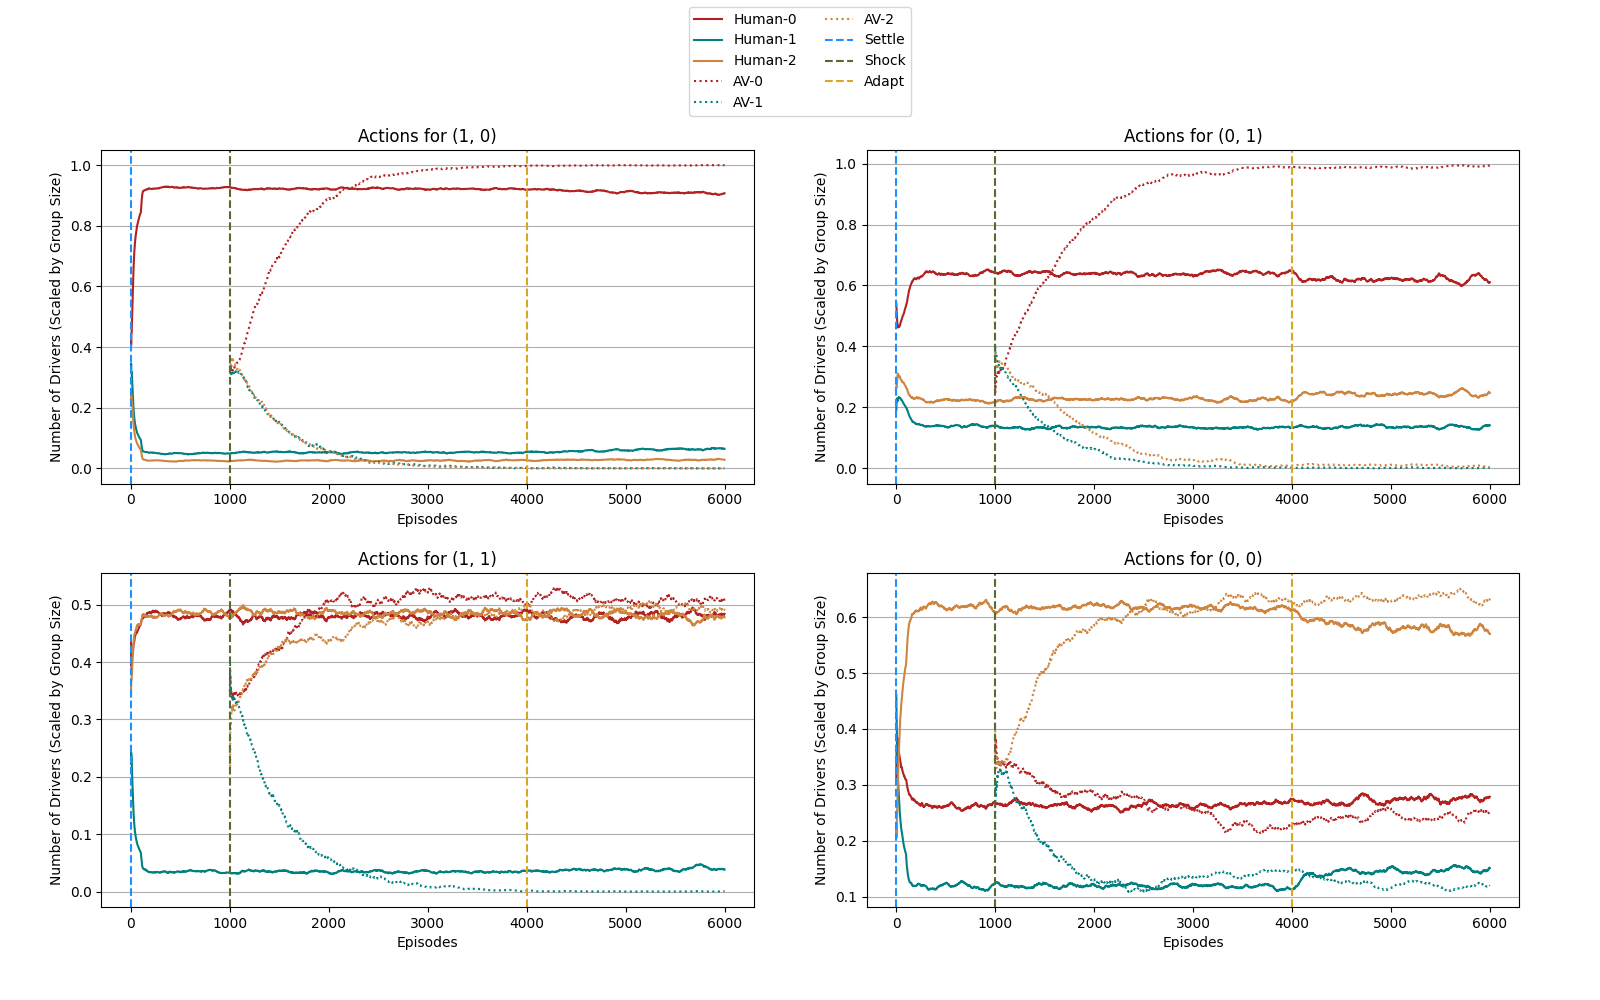
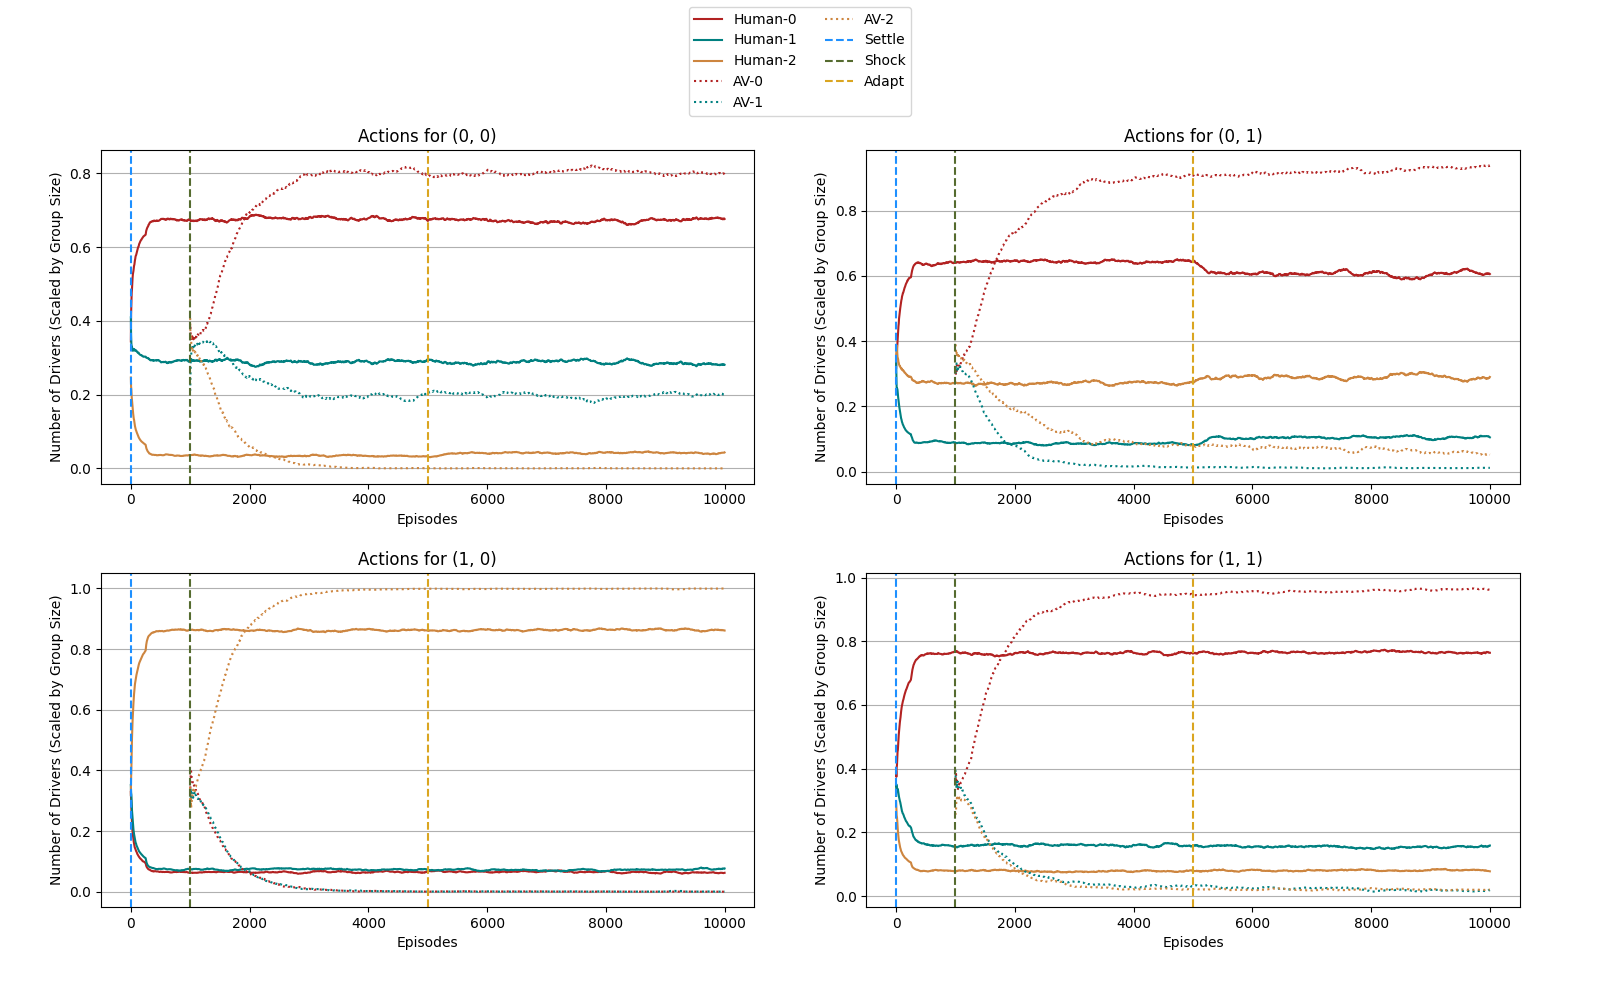
update readme

diff --git a/README.md b/README.md
@@ -1,13 +1,6 @@
-# Overview
-
-This project involves the development of a reinforcement learning environment where AV and human agents learn the optimal path to get from an origin to a destination.
-The implementation includes several components, as depicted in the UML Class and Sequence Diagrams [HERE](https://miro.com/app/board/uXjVN4vGqSI=/?share_link_id=316593087566).
-
 # How to run on servers?
 
 See [here](server_scripts/how_to.md).
-
-<br><br><br>
 
 # Training setting
 
@@ -16,28 +9,21 @@ See [here](server_scripts/how_to.md).
 - Humans: 823 | AVs: 377 
 - Humans: Gawron | AVs: DQN (Single)
 ## AVs' objective
-- Conducted:
-    - **Selfish**: Minimize own travel time.
-    - **Altruistic**: Minimize everyone's travel times.
-    - **Competitive**: Minimize own travel time, maximize other group's travel times.
-    - **Collaborative**: Minimize own and own group's travel times. 
-    - **Social**: Minimize own and everyone's travel times.
-    - **Malicious**: Maximize other group's travel times.
-- See [results](results).
+- **Competitive**: Minimize own travel time, maximize other group's travel times.
 ## Training episodes
-- 6000 episodes, 3 phases
+- 10000 episodes, 3 phases
 - Phase 1 (**Settle**) : Starts in episode 1
     - Humans: 1200
     - Only humans learn.
 - Phase 2 (**Shock**) : Starts in episode 1000
     - Humans: 823  AVs: 377 
     - Only machines learn.
-- Phase 3 (**Adapt**) : Starts in episode 4000
+- Phase 3 (**Adapt**) : Starts in episode 5000
     - Humans: 823  AVs: 377
     - Both machines and humans learn.
 ## Training duration
-- 18 hours, 20 minutes, 16 seconds
-- 11 seconds per episode in average
+- ~17 hours
+- ~7 seconds per episode in average
 ## Hardware
  - gpu=gpu:1
  - mem=64G
@@ -46,24 +32,7 @@ See [here](server_scripts/how_to.md).
 
 <br><br><br>
 
-# Results (All)
-#### *Smoothed by n=200*
-Human Travel Times            |  AV Travel Times
-:-------------------------:|:-------------------------:
-![](readme_plots/HUMANS.png)  |  ![](readme_plots/AVs.png)
-
-<br><br><br>
-
-# Results (for Competitive AVs)
-
-Compared to the traffic efficiencies in the end of settle and adapt phases:
-- AVs achieved 8.779% travel time improvement,
-    - (Before: 7.078 vs After: 6.456)
-- At the cost of 0.072% human travel time change.
-    - (Before: 7.078 vs After: 7.073)
-- Overall traffic efficiency changed by 2.807%.
-    - (Before: 7.078 vs After: 6.879)
-
+# Results
 #### *All plots smoothed by n=50*
 
 ## Travel times (in minutes)
@@ -93,7 +62,3 @@ Compared to the traffic efficiencies in the end of settle and adapt phases:
 
 ## Action Selection Shifts After Mutation
 ![](readme_plots/actions_shifts.png)
-
-
-## Freeflow Times
-![](readme_plots/ff_travel_time.png)
